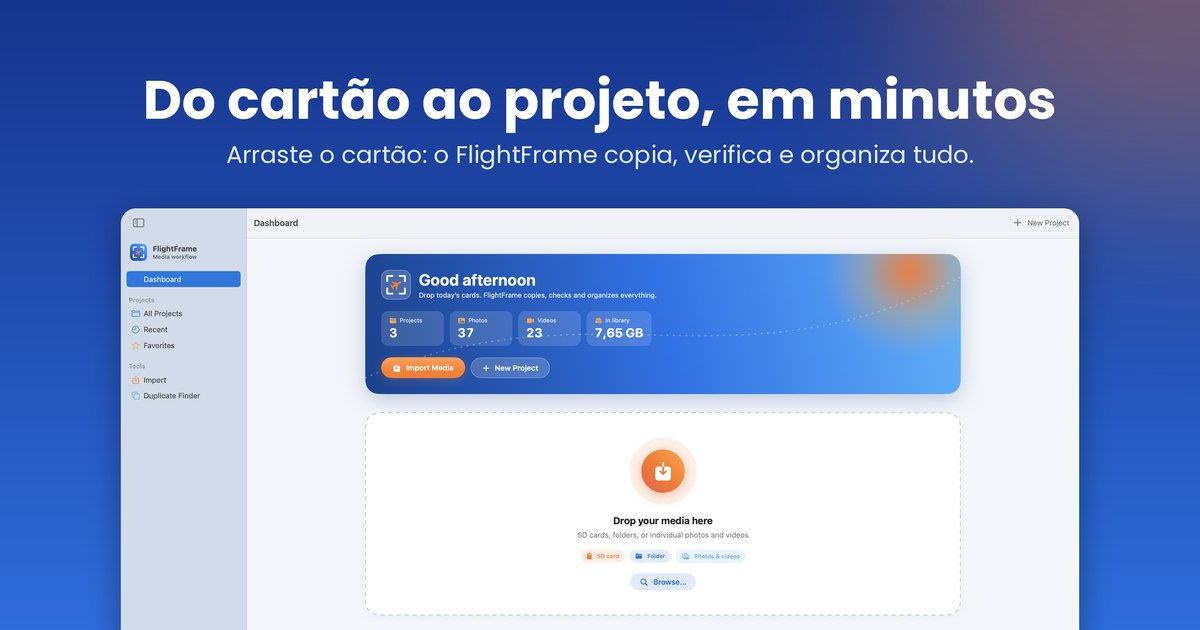
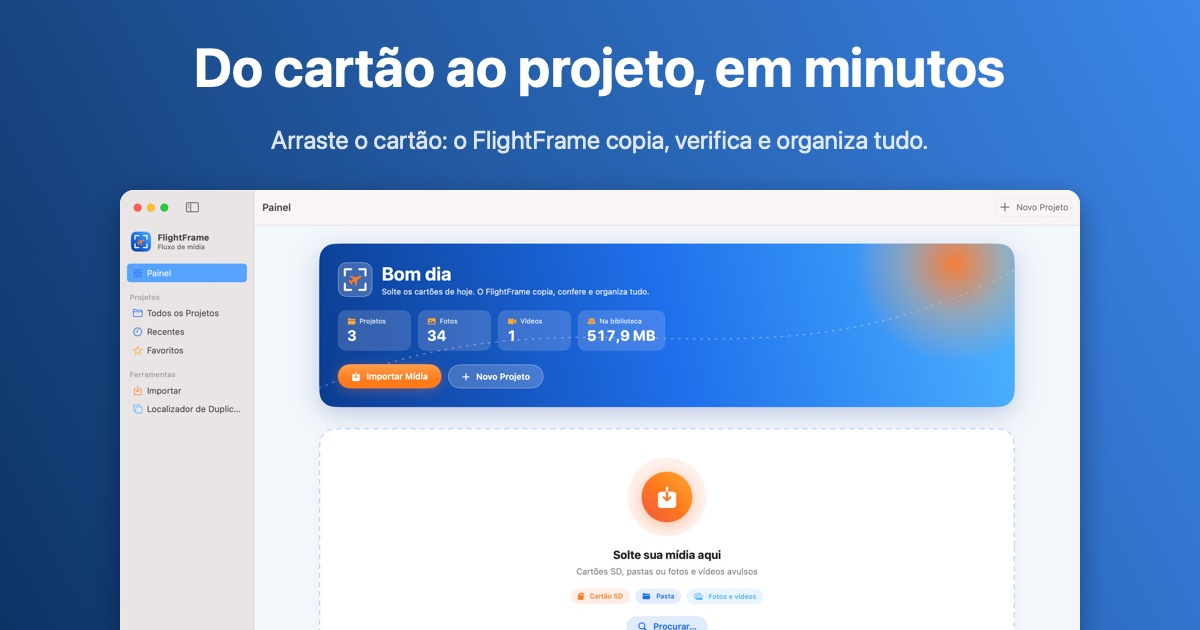
Show the 1.8 app in Portuguese on the Portuguese site
The Portuguese page still showed screenshots from before 1.8, with the
app in English. It now uses the 1.8 App Store screenshots in Portuguese,
laid out like the English page, including client selection. Each
language gets its own link preview from the 1.8 Dashboard.

diff --git a/index.html b/index.html
@@ -167,7 +167,7 @@
           </div>
           <div class="window">
             <div class="window-bar" aria-hidden="true"><i></i><i></i><i></i></div>
-            <img src="assets/screen-review.jpg" width="1920" height="726" loading="lazy" alt="Revisão do cartão com 203 arquivos, formatos, detalhes da câmera e 19 sets detectados">
+            <img src="assets/screen-flights.jpg" width="1920" height="1200" loading="lazy" alt="Os voos de um projeto de drone no mapa, cada um com o nome do lugar da decolagem">
           </div>
         </article>
 
@@ -179,7 +179,7 @@
           </div>
           <div class="window">
             <div class="window-bar" aria-hidden="true"><i></i><i></i><i></i></div>
-            <img src="assets/screen-new-project.jpg" width="1920" height="1200" loading="lazy" alt="Janela de novo projeto com os tipos de ensaio e de drone">
+            <img src="assets/screen-project.jpg" width="1920" height="1200" loading="lazy" alt="Projeto com status Verificado e as pastas criadas pelo FlightFrame Studio">
           </div>
         </article>
 
@@ -196,7 +196,7 @@
           </div>
           <div class="window">
             <div class="window-bar" aria-hidden="true"><i></i><i></i><i></i></div>
-            <img src="assets/screen-project.jpg" width="1920" height="1200" loading="lazy" alt="Projeto com status Verificado e as pastas criadas pelo FlightFrame Studio">
+            <img src="assets/screen-flight.jpg" width="1920" height="1200" loading="lazy" alt="Um voo com o trajeto no mapa e as fotos verificadas tiradas nele">
           </div>
         </article>
 
@@ -319,6 +319,10 @@
             <li><strong>Seu copyright nas fotos</strong><span>Autor, contato e direitos autorais gravados nas cópias automaticamente.</span></li>
             <li><strong>Privacidade para ensaios íntimos</strong><span>Miniaturas guardadas só na memória, sem nenhuma cópia em disco.</span></li>
           </ul>
+          <div class="window aud-shot">
+            <div class="window-bar" aria-hidden="true"><i></i><i></i><i></i></div>
+            <img src="assets/screen-selection.jpg" width="1920" height="1200" loading="lazy" alt="Seleção da cliente com a lista colada do WhatsApp e as fotos encontradas no ensaio">
+          </div>
         </div>
       </div>
     </div>

diff --git a/en/index.html b/en/index.html
@@ -20,7 +20,7 @@
 <meta property="og:title" content="FlightFrame Studio: from card to project, every file verified">
 <meta property="og:description" content="Checksum-verified copies, a verified backup on a second drive, flights and sets organized. Now on the Mac App Store.">
 <meta property="og:url" content="https://flightframe.ravendronevideos.com.br/en/">
-<meta property="og:image" content="https://flightframe.ravendronevideos.com.br/assets/og-image.jpg">
+<meta property="og:image" content="https://flightframe.ravendronevideos.com.br/assets/en/og-image.jpg">
 <meta property="og:image:width" content="1200">
 <meta property="og:image:height" content="630">
 <meta name="twitter:card" content="summary_large_image">

diff --git a/LEIA-ME.md b/LEIA-ME.md
@@ -7,8 +7,9 @@ Arquivos para o repositório do site (`flightframe`), publicado pelo GitHub Page
 
 - **Na Mac App Store:** FlightFrame Studio **1.8** (com a seleção da cliente), Apple ID `6822035026`.
 - **Duas línguas:** `index.html` em português e `en/index.html` em inglês, para o mercado americano
-  (preço do Pro em dólar: **$39.99**, links `apps.apple.com/us/...`). As capturas em inglês ficam em
-  `assets/en/` (as da loja, 1.8). Privacidade e suporte têm a parte em inglês na mesma página
+  (preço do Pro em dólar: **$39.99**, links `apps.apple.com/us/...`). As capturas ficam em `assets/`
+  (português) e `assets/en/` (inglês), as mesmas da loja na 1.8, e cada língua tem a sua imagem de
+  prévia de links (`og-image.jpg`). Numa versão nova, troque as capturas e as prévias das duas línguas. Privacidade e suporte têm a parte em inglês na mesma página
   (`#english`). Ao mudar um texto, mude nas duas línguas.
   Botões de download: `https://apps.apple.com/app/flightframe-studio/id6822035026`.
 - **TestFlight** (`https://testflight.apple.com/join/Wz2NuCgx`) só no convite para o beta: texto do
